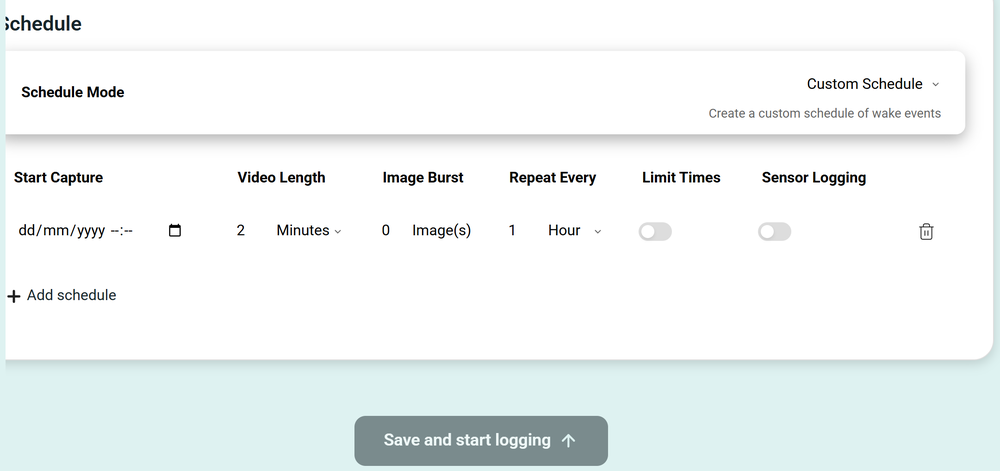
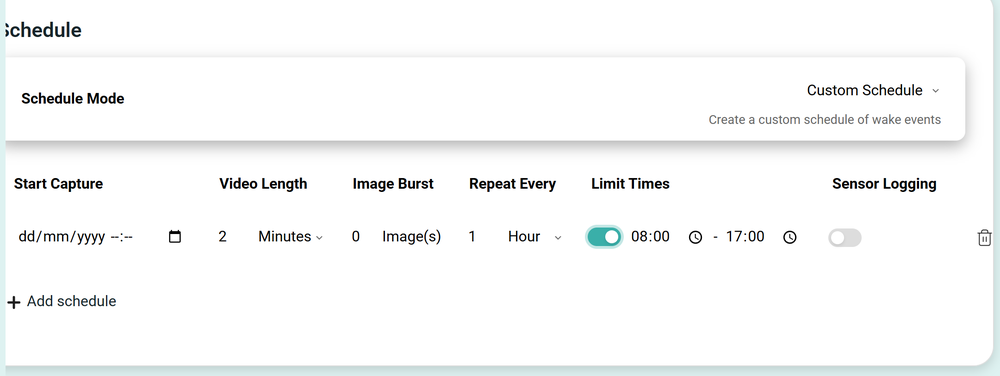
Document Limit Times in the PEBL App schedule guide
Capture and show the Limit Times daily window (example 08:00 to 17:00) on
the custom schedule row, and describe it accurately. Completes the
Schedule page.

diff --git a/docs/pebl-app/schedule.md b/docs/pebl-app/schedule.md
@@ -22,7 +22,7 @@ Smart Capture adapts to light conditions to get the most useful recording out of
 
 Custom Schedule lets you define each wake event yourself. Press **Add schedule** to add a row.
 
-![A custom schedule wake-event row.](/img/app-schedule.png)
+![A custom schedule wake-event row, shown with Limit Times enabled.](/img/app-schedule.png)
 
 | Field | Meaning |
 | --- | --- |
@@ -30,7 +30,7 @@ Custom Schedule lets you define each wake event yourself. Press **Add schedule**
 | **Video Length** | How long to record video, in seconds or minutes. |
 | **Image Burst** | How many still images to take at the event. |
 | **Repeat Every** | The interval between repeats, in minutes, hours or days. |
-| **Limit Times** | Restrict the event to a chosen time-of-day window. |
+| **Limit Times** | Restrict the event to a daily time window. When switched on, set a start and end time (the example shows 08:00 to 17:00) and the event only fires between those hours each day. |
 | **Sensor Logging** | Log the on-board sensors at this event. |
 
 Add as many rows as you need (each row has a delete button), then press **Save and start logging**.
